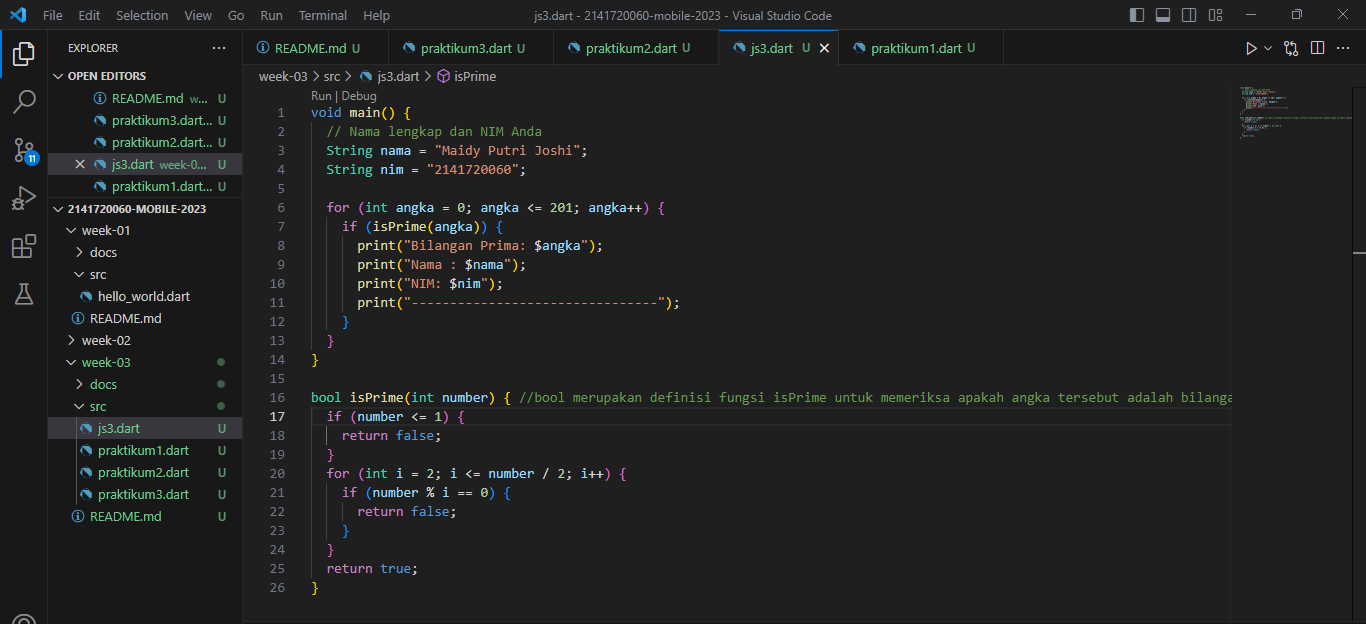
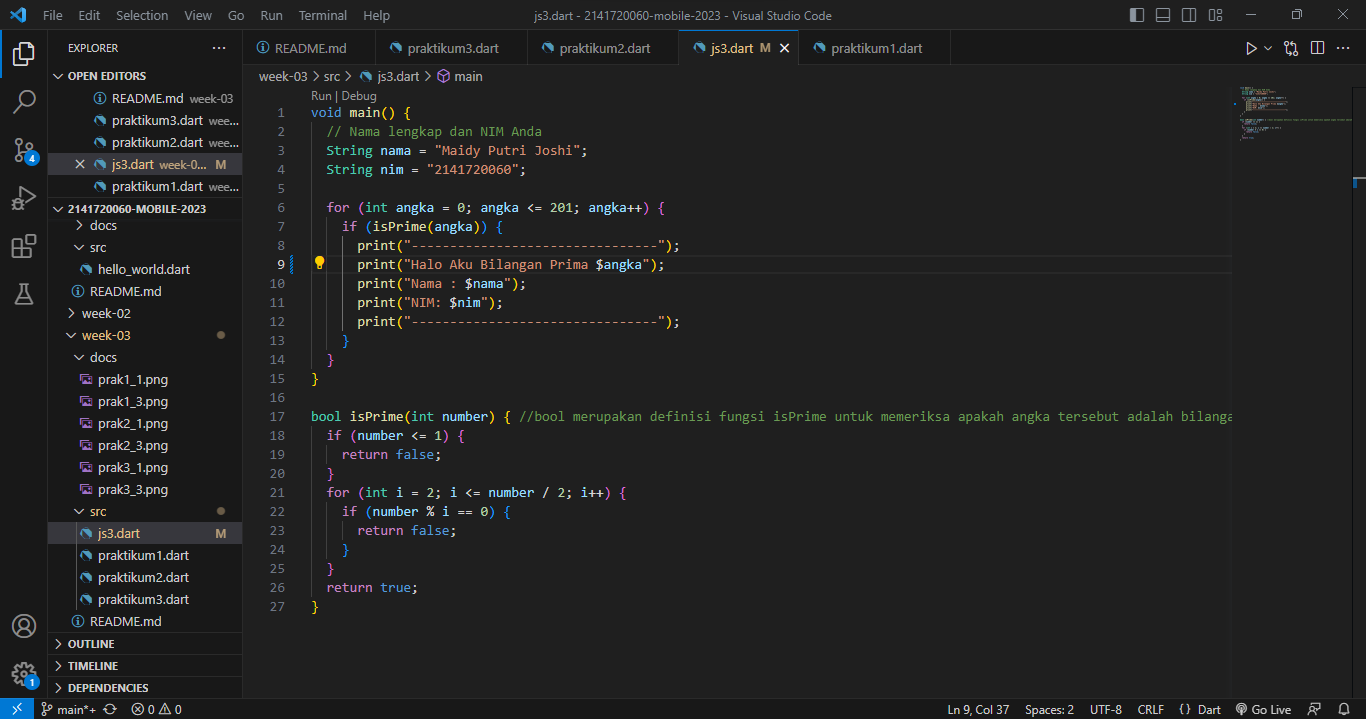
test

diff --git a/week-03/src/js3.dart b/week-03/src/js3.dart
@@ -5,7 +5,8 @@ void main() {
 
   for (int angka = 0; angka <= 201; angka++) {
     if (isPrime(angka)) {
-      print("Bilangan Prima: $angka");
+      print("--------------------------------");
+      print("Halo Aku Bilangan Prima $angka");
       print("Nama : $nama");
       print("NIM: $nim");
       print("--------------------------------");

diff --git a/week-03/README.md b/week-03/README.md
@@ -109,4 +109,5 @@ Kode Program:
 
 
 Hasil Running:
-![Screenshot hello_world](docs/running_tugas.png)
+![Screenshot hello_world](docs/running_tugas1.png)
+![Screenshot hello_world](docs/running_tugas2.png)
